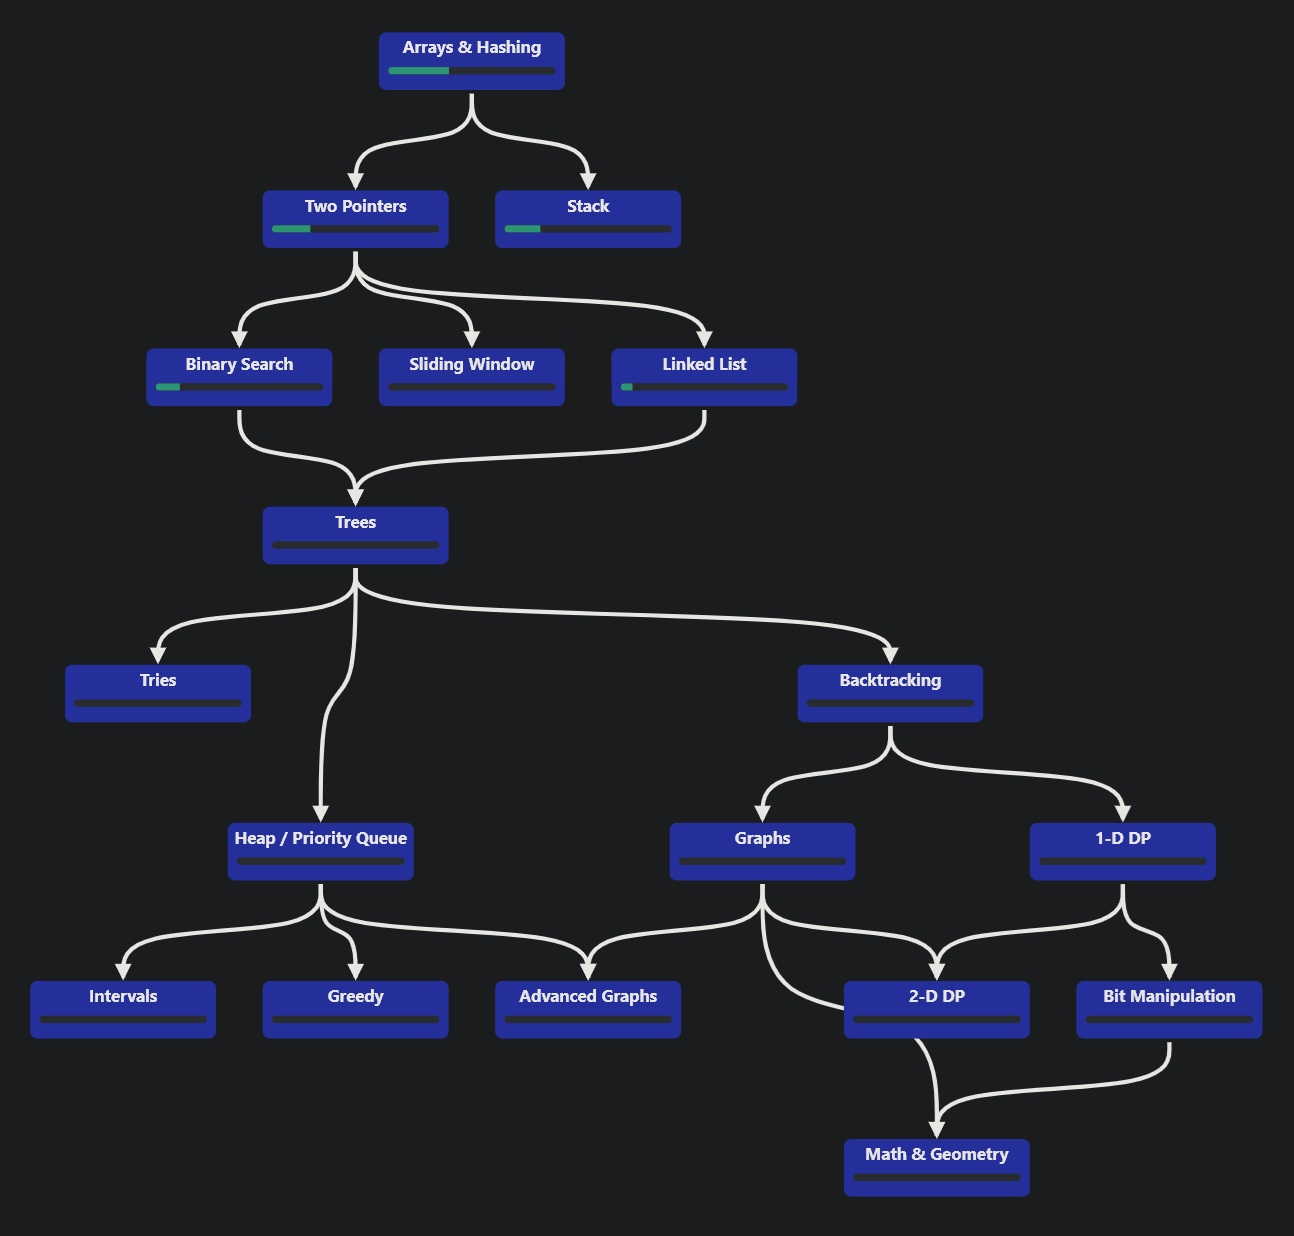
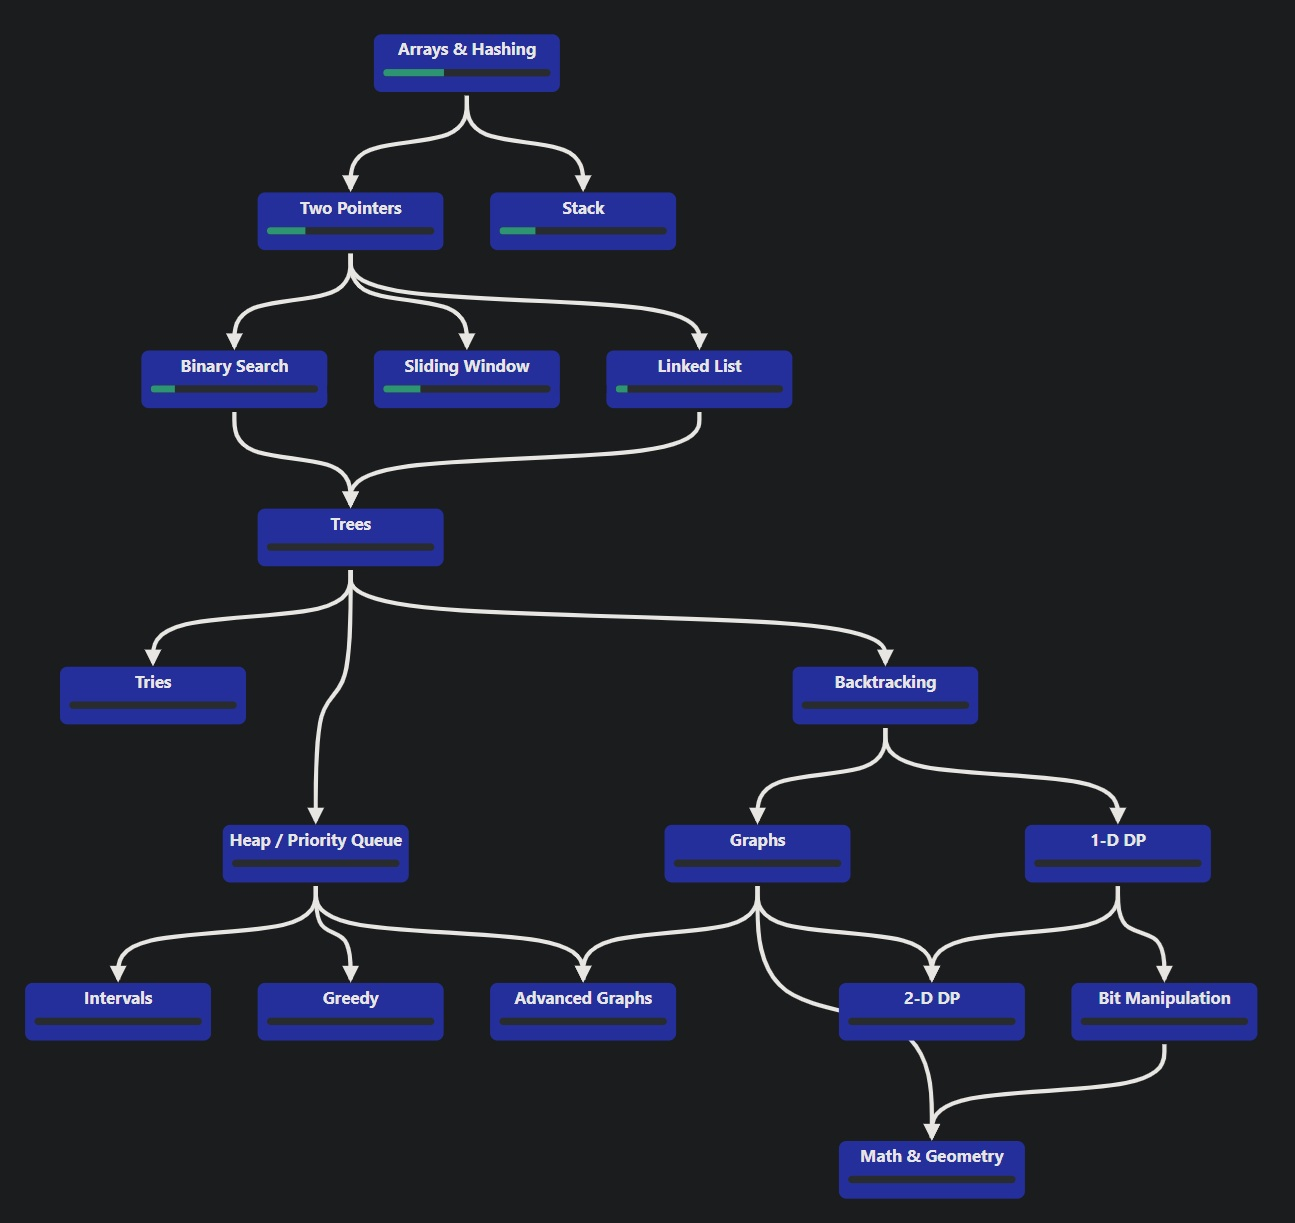
Add solutions

Changed region(s): [[0.0, 0.1243, 0.9892, 0.9943], [0.2782, 0.0, 0.4637, 0.1243]]

diff --git a/Sliding-Window/Permutation-In-String.py b/Sliding-Window/Permutation-In-String.py
@@ -1,0 +1,33 @@
+class Solution:
+    def checkInclusion(self, s1: str, s2: str) -> bool:
+        
+        # Make a hashmap for easy search within string
+        s1_dict = {}
+        for ch in s1:
+            if ch in s1_dict: s1_dict[ch] += 1
+            else: s1_dict[ch] = 1
+        
+        # Build a dict progressively for the main string, checking
+        # along the way to see if it matches
+        iterated = 0
+        s2_dict = {}
+        for i in range(len(s2)):
+
+            # Add value if smaller than window size
+            if iterated < len(s1):
+                ch = s2[i]
+                if ch in s2_dict: s2_dict[ch] += 1
+                else: s2_dict[ch] = 1
+                iterated += 1
+
+            # If we reach the window size, check if equal, otherwise remove
+            # the value at the start of the window to slide and continue
+            if iterated == len(s1):
+                if s1_dict == s2_dict: return True
+                else:
+                    ch = s2[i-len(s1) + 1]
+                    if s2_dict[ch] == 1: s2_dict.pop(ch)
+                    else: s2_dict[ch] -= 1
+                    iterated -= 1
+
+        return False

diff --git a/Sliding-Window/Best-Time-To-Buy-And-Sell-Stock.py b/Sliding-Window/Best-Time-To-Buy-And-Sell-Stock.py
@@ -1,0 +1,25 @@
+from typing import List
+
+class Solution:
+    def maxProfit(self, prices: List[int]) -> int:
+        
+        # Max profit doing nothing is 0, we don't want to go negative
+        max_p = 0
+
+        # Use a sliding window to search the list of prices. If
+        # a range has negative value, we can simply move the window to
+        # start searching the next range.
+
+        l = 0
+        r = 1
+
+        while r < len(prices):
+            profit = prices[r] - prices[l]
+            if profit > 0:
+                if profit > max_p: max_p = profit
+                r += 1
+            else:
+                l = r
+                r += 1
+
+        return max_p
